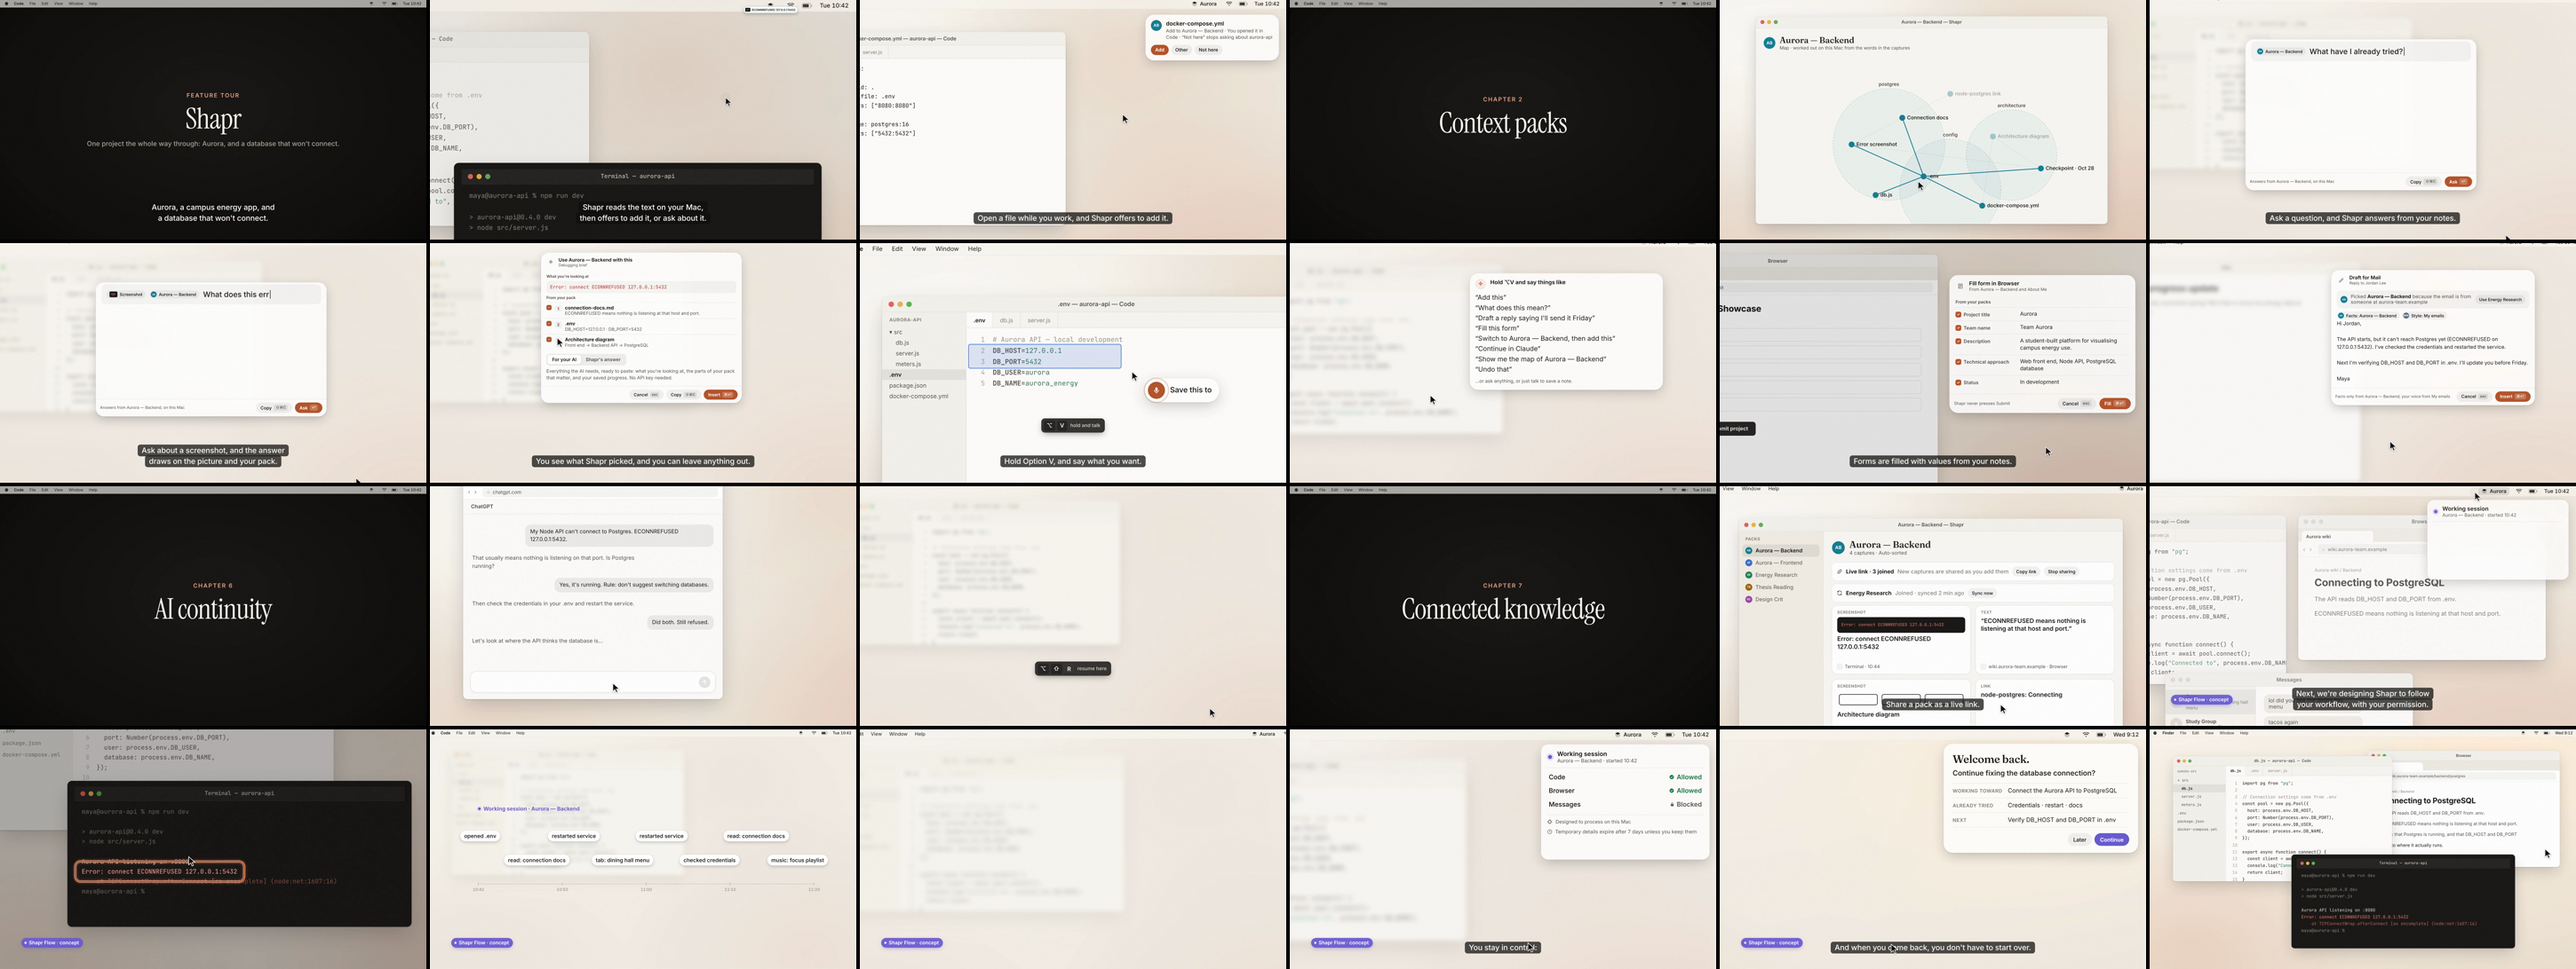
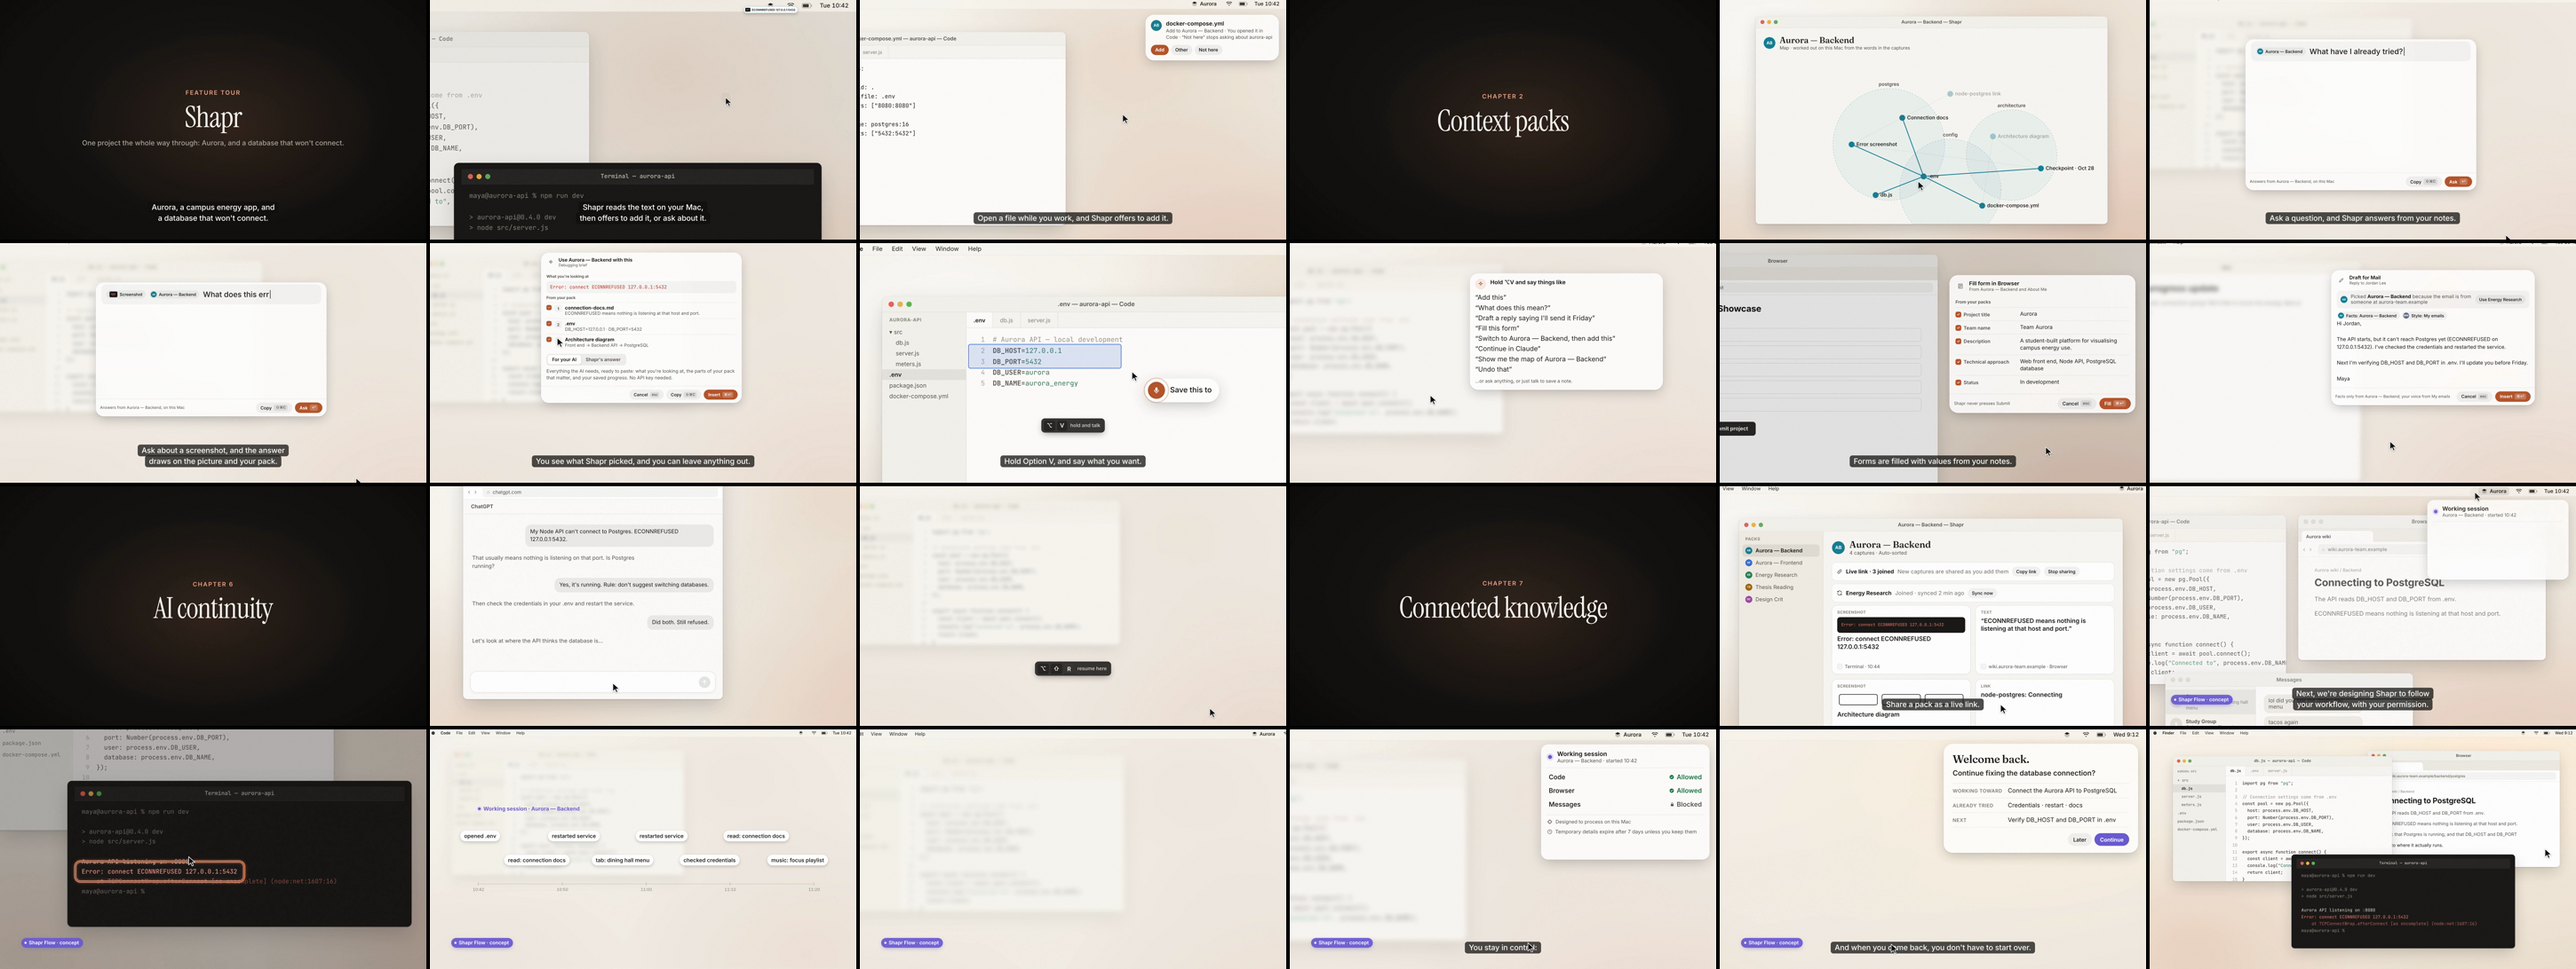
Final QA report and Gate D results for all exports
Claude-Session: https://claude.ai/code/session_014GFHDQKTVutLkk4ef4XCHy

diff --git a/demo-video/qa/report.md b/demo-video/qa/report.md
@@ -1,0 +1,65 @@
+# QA report
+
+## Gate D: exports
+
+Measured by `scripts/validate.py` (ffprobe, frame differences on a 96×54 downscale, ebur128, SRT checks).
+"Dead air" = any stretch over 2.5 s where the frame 1 s later is nearly identical. "Spikes" = a single frame that
+differs from both neighbours while the neighbours match. Contact sheets: `qa/sheet-<export>.png`.
+
+| File | Duration | Resolution | fps | Video | Audio | Loudness | Dead air | Spikes | Captions | Result |
+|---|---|---|---|---|---|---|---|---|---|---|
+| `shapr_feature_tour.mp4` | 6:03.17 | 1920×1080 | 30/1 | h264 High yuv420p | aac 48000 Hz 2ch | -16.0 LUFS / -1.4 dBTP | 0 | 0 | 57 | PASS |
+| `shapr_hero_1080p.mp4` | 3:21.40 | 1920×1080 | 30/1 | h264 High yuv420p | aac 48000 Hz 2ch | -16.0 LUFS / -1.5 dBTP | 0 | 0 | 27 | PASS |
+| `shapr_hero_4k.mp4` | 3:21.40 | 3840×2160 | 30/1 | h264 High yuv420p | aac 48000 Hz 2ch | -16.0 LUFS / -1.5 dBTP | 0 | 0 | 27 | PASS |
+| `shapr_hero_captions.mp4` | 3:21.40 | 1920×1080 | 30/1 | h264 High yuv420p | aac 48000 Hz 2ch | -16.0 LUFS / -1.5 dBTP | 0 | 0 | 27 | PASS |
+| `shapr_trailer_60s.mp4` | 1:00.00 | 1920×1080 | 30/1 | h264 High yuv420p | aac 48000 Hz 2ch | -16.0 LUFS / -1.5 dBTP | 0 | 0 | 6 | PASS |
+
+## Gates A–C: visual review
+
+What was looked at, what was wrong, what changed. Images referenced are in this folder.
+
+## Gate A: style frames (`gate-a/*.jpg`, rendered at 3840×2160)
+
+| Frame | Verdict | Notes |
+|---|---|---|
+| Cluttered desktop (s01 3.7 s) | pass | Busy on purpose; newest window full contrast, older ones receded. Caption sits over terminal text in this one beat; accepted because it is the "chaos" shot. |
+| Shapr menu on a clean desktop (s02 7.5 s) | pass after fix | First pass: the menu opened off the right edge and the dim turned the paper desktop muddy brown. Fixed: menu clamped inside the screen like a real macOS menu, dim reduced to 14%. |
+| Circle mid-draw (s03 3.45 s) | pass | Pressure-varying clay stroke, glow under 12 px, pen dot at the head, real hint "⌘ ⌘ double-tap". |
+| Threads card (s10 14 s) | pass after fix | Dark terminal behind the card read as a grey blob: removed from Flow backgrounds. Labels raised to 16 px, values to 23 px so they read at the final camera scale. |
+| End card (s12 17.5 s) | pass after fix | Cursor was visible on the end card: hidden. |
+
+Display face: Instrument Serif chosen over Fraunces for statements (calmer at 112 px, tighter, reads as editorial rather than quirky); Fraunces kept for in-app serif titles ("Welcome back.", pack names) where the app itself uses a serif.
+
+## Gate B: animatic (`sheet-shapr_hero_proxy.png`, proxy MP4 with audio)
+
+- Sound off: statements plus captions carry the whole story; act change to violet is legible from the chapter card and the pill.
+- Fixed: "Meet Shapr" narration collided with the statement (split into two cues, statement moved to the downbeat at 1.154 s); the last narration line overlapped the end card (moved earlier); captions overlapped the concept pill in the Flow act (caption width capped at 1080 px).
+- Timing: no beat drags; the longest single holds are the Threads card (≈8 s, with narration) and the end card (≈7.5 s, required ≥3 s).
+- Validator: no dead air (minimum change over any 1 s: 0.18 grey levels on a 96×54 downscale), no single-frame spikes, −16.0 LUFS, −1.5 dBTP.
+
+## Gate C: per scene (`s04.png` … `s09s11.png`, `tour-panels.png`) and signature strips
+
+| Scene | Found | Fixed |
+|---|---|---|
+| s03 circle | windows painted over the circle (z-index); loop too wide (included the stack trace); locked shape had chamfered corners (angle sampling); card text under 24 px; blur softened the circled text | stacking contexts; circle only the error line; rounded rect sampled by perimeter; camera moves to the card at 1.55×; no blur for corner cards |
+| s03 strips (`strip-circle.png`, `strip-circle2.png`) | pass 1: 95% of the loop drawn in the first half of 900 ms (snap) | pass 2: quadratic ease-out, 33/63/82/94% at quarter points; spring close and 250 ms hold confirmed frame by frame |
+| s04 packs | library window sat under the dim veil (washed out); wheel too small on screen | library moved to the Shapr layer; camera 1.75× on the wheel |
+| s05 doing | panels clipped by the camera clamp; "Filled 5 of 5 fields" off-frame; duplicate ".env" tab | camera centres recomputed; editor tabs de-duplicated |
+| s06 handoff | framing wandered, reply bubble off-frame, cursor "reading" below the preview | windows resized, camera path rebuilt, cursor path moved onto the preview |
+| s07 connected | panels high in the frame; AI answer still typing at the statement | panels centred; typing speed doubled |
+| s08 flow | caption collided with the concept pill | caption width cap |
+| s09, s11 | pass; open assumptions visibly marked "Unresolved" | — |
+| tour panels | dark terminal blobs behind dimmed panels | terminal hidden in those variants |
+| key hints | crowded the caption zone | hints clamped above y = 790 |
+| master encode | per-frame grain in 4K segments → ~180 Mbit/s | grain moved to the export encode only |
+
+## Known issues and limits
+
+- **No Mac.** Shapr was not built or run; every Shapr surface is a reconstruction from the Swift source. Labels were copied from the code, but small layout details (exact spacing, Liquid Glass refraction, SF Symbols) are approximations. The menu-bar icon is an original drawing standing in for `square.stack.3d.up.fill`.
+- **Narration is synthetic** (Kokoro `af_heart`). It was checked by duration and phonemes ("Shapr" fed as "Shaper"), not by ear: this environment has no audio playback. A human read is recommended for the event; `script.md` lists every line with its id and the room available.
+- **The music and effects were also not auditioned by ear.** They were checked objectively: no clipping, mix at −16 LUFS, true peak ≤ −1.4 dBTP, music ducked ~9 dB under narration.
+- **End-card holds** (hero ~3.5 s, tour ~2.8 s) are deliberately near-static; the validator reports them as `final_hold`, not dead air.
+- **Stylised moments** documented in `authenticity-report.md`: the full circle loop staying visible and springing into a rectangle; the thumbnail travelling into the corner card; captures arcing into the library.
+- **Trailer, tour and caption-forward hero** are native 1080p renders (deviceScaleFactor 1), not downscaled from 4K; only the hero has a 4K master.
+- **File sizes** are generous (hero 1080p ≈ 121 MB, tour ≈ 209 MB) because film grain is encoded at a high quality; re-encode with a higher CRF if a venue needs smaller files.
+- Not delivered (optional extras): 15-second teaser, silent loop, vertical 1080×1920 trailer.

diff --git a/demo-video/qa/known-issues.md b/demo-video/qa/known-issues.md
@@ -1,0 +1,10 @@
+## Known issues and limits
+
+- **No Mac.** Shapr was not built or run; every Shapr surface is a reconstruction from the Swift source. Labels were copied from the code, but small layout details (exact spacing, Liquid Glass refraction, SF Symbols) are approximations. The menu-bar icon is an original drawing standing in for `square.stack.3d.up.fill`.
+- **Narration is synthetic** (Kokoro `af_heart`). It was checked by duration and phonemes ("Shapr" fed as "Shaper"), not by ear: this environment has no audio playback. A human read is recommended for the event; `script.md` lists every line with its id and the room available.
+- **The music and effects were also not auditioned by ear.** They were checked objectively: no clipping, mix at −16 LUFS, true peak ≤ −1.4 dBTP, music ducked ~9 dB under narration.
+- **End-card holds** (hero ~3.5 s, tour ~2.8 s) are deliberately near-static; the validator reports them as `final_hold`, not dead air.
+- **Stylised moments** documented in `authenticity-report.md`: the full circle loop staying visible and springing into a rectangle; the thumbnail travelling into the corner card; captures arcing into the library.
+- **Trailer, tour and caption-forward hero** are native 1080p renders (deviceScaleFactor 1), not downscaled from 4K; only the hero has a 4K master.
+- **File sizes** are generous (hero 1080p ≈ 121 MB, tour ≈ 209 MB) because film grain is encoded at a high quality; re-encode with a higher CRF if a venue needs smaller files.
+- Not delivered (optional extras): 15-second teaser, silent loop, vertical 1080×1920 trailer.
